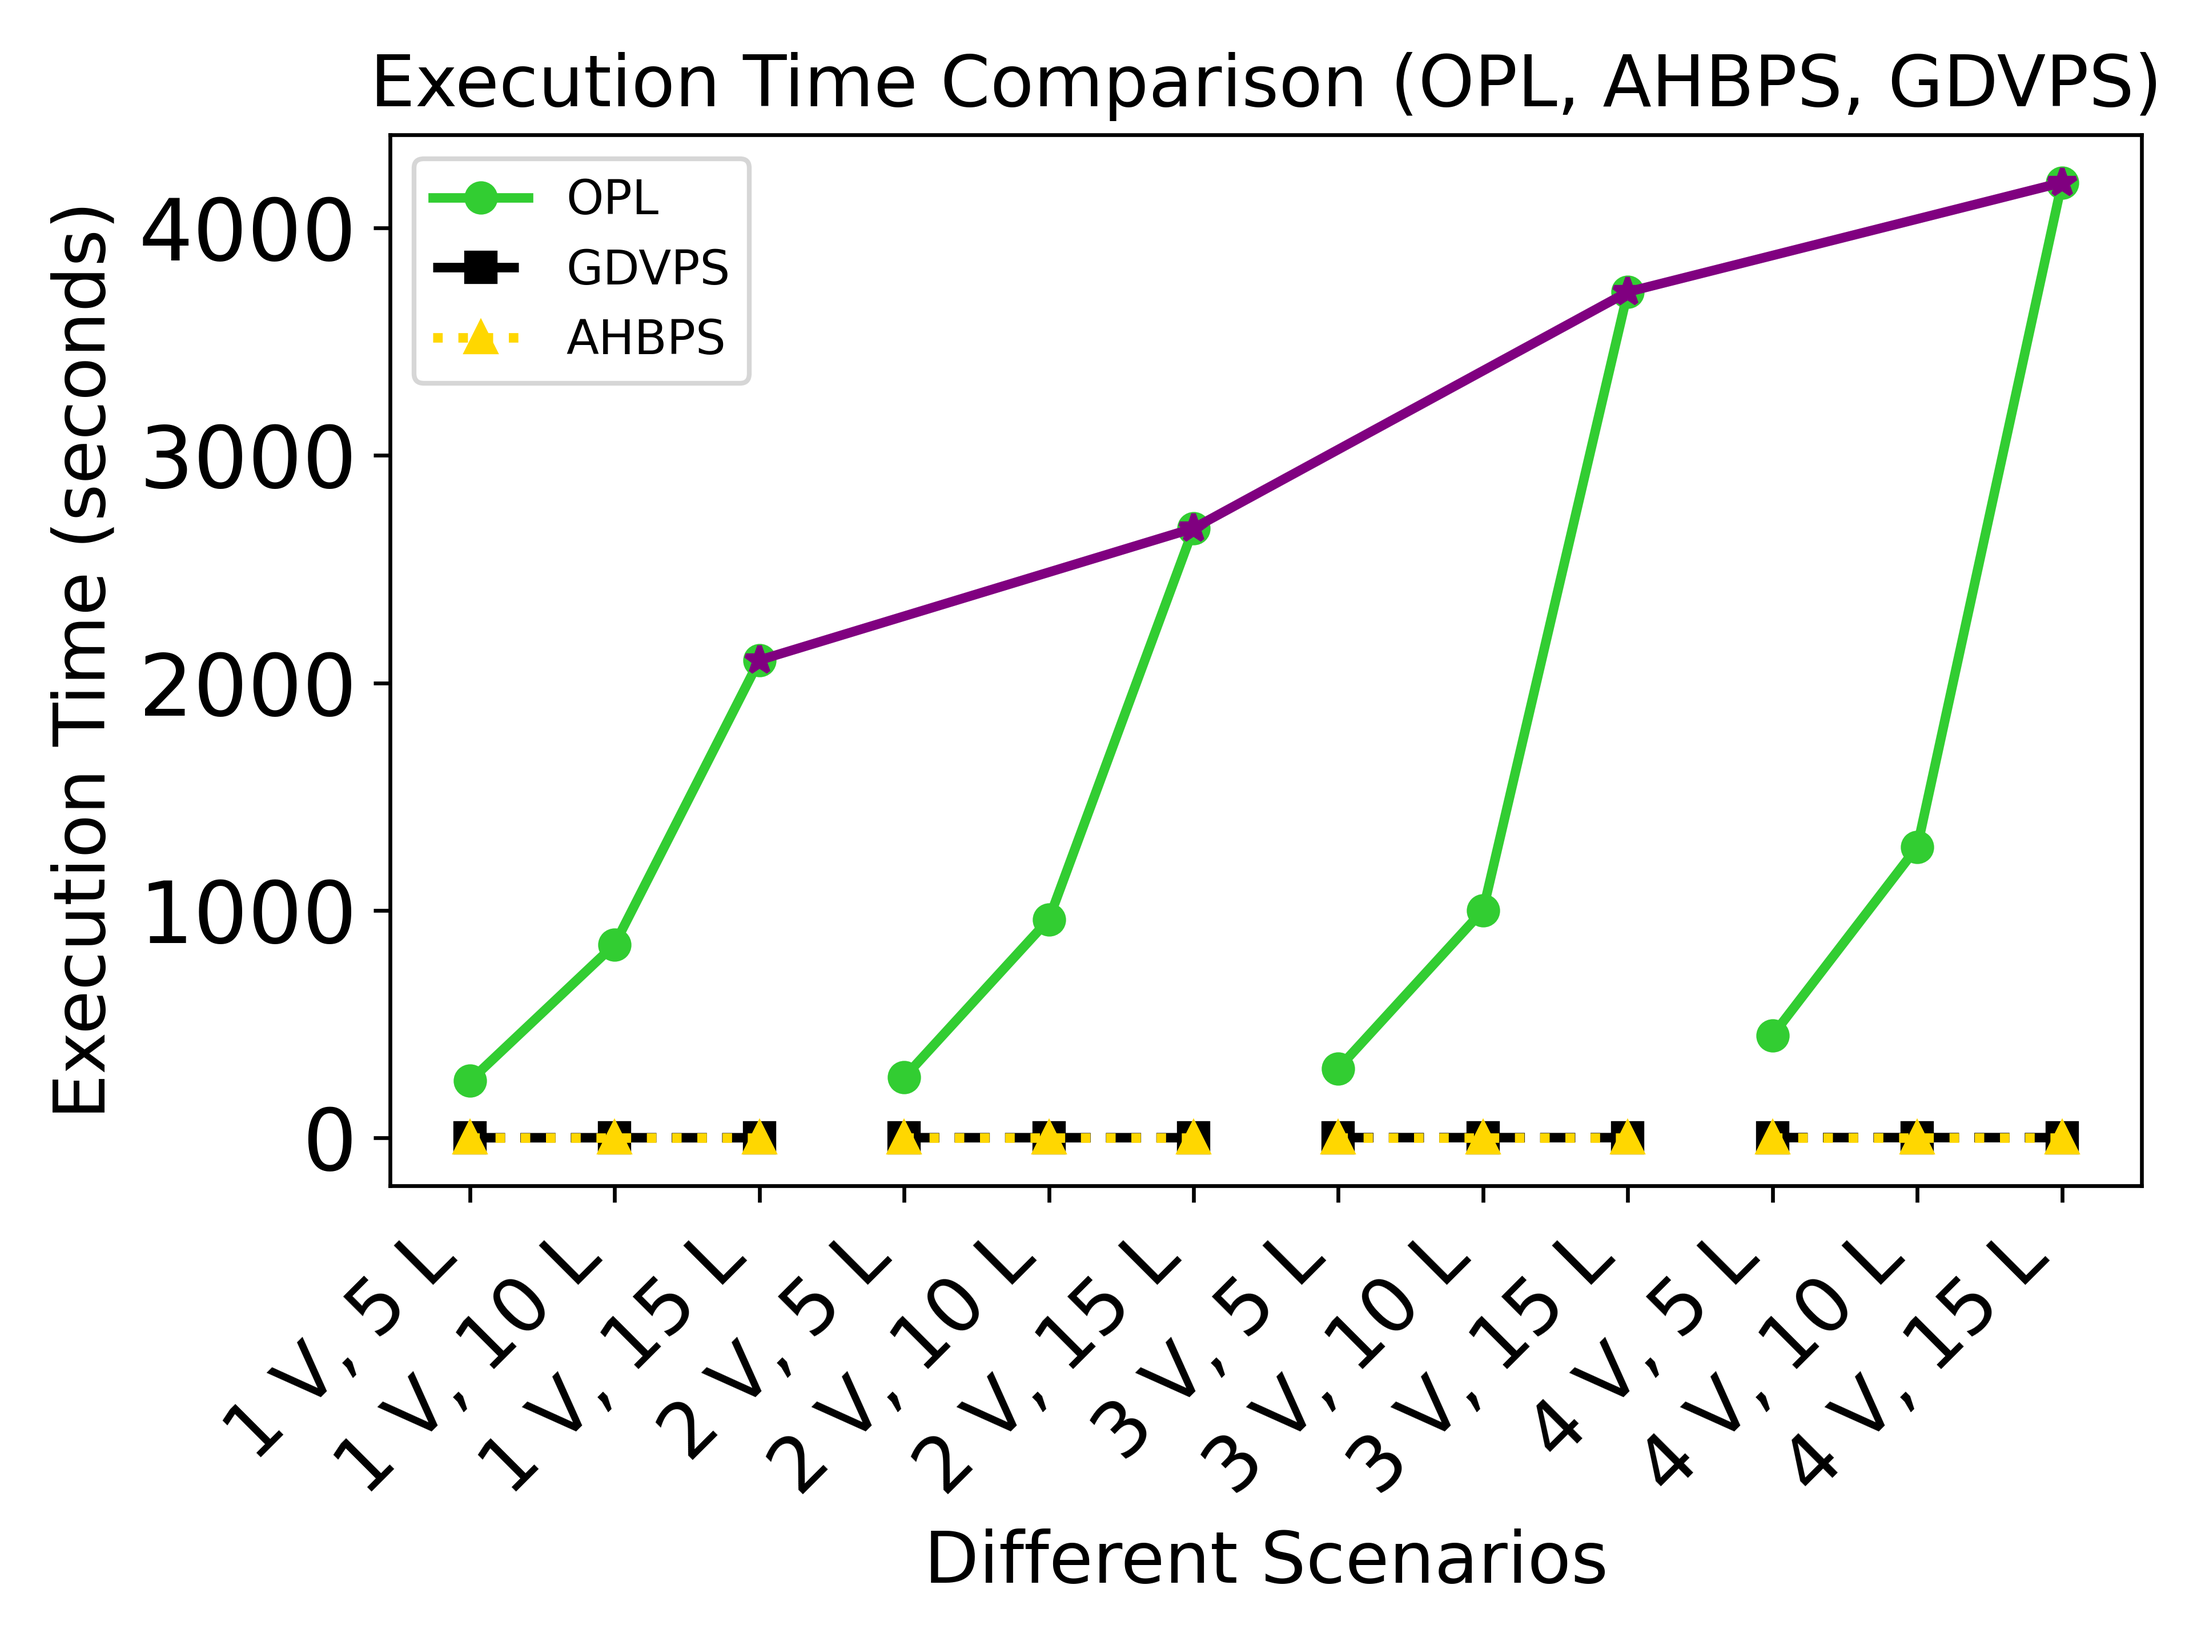
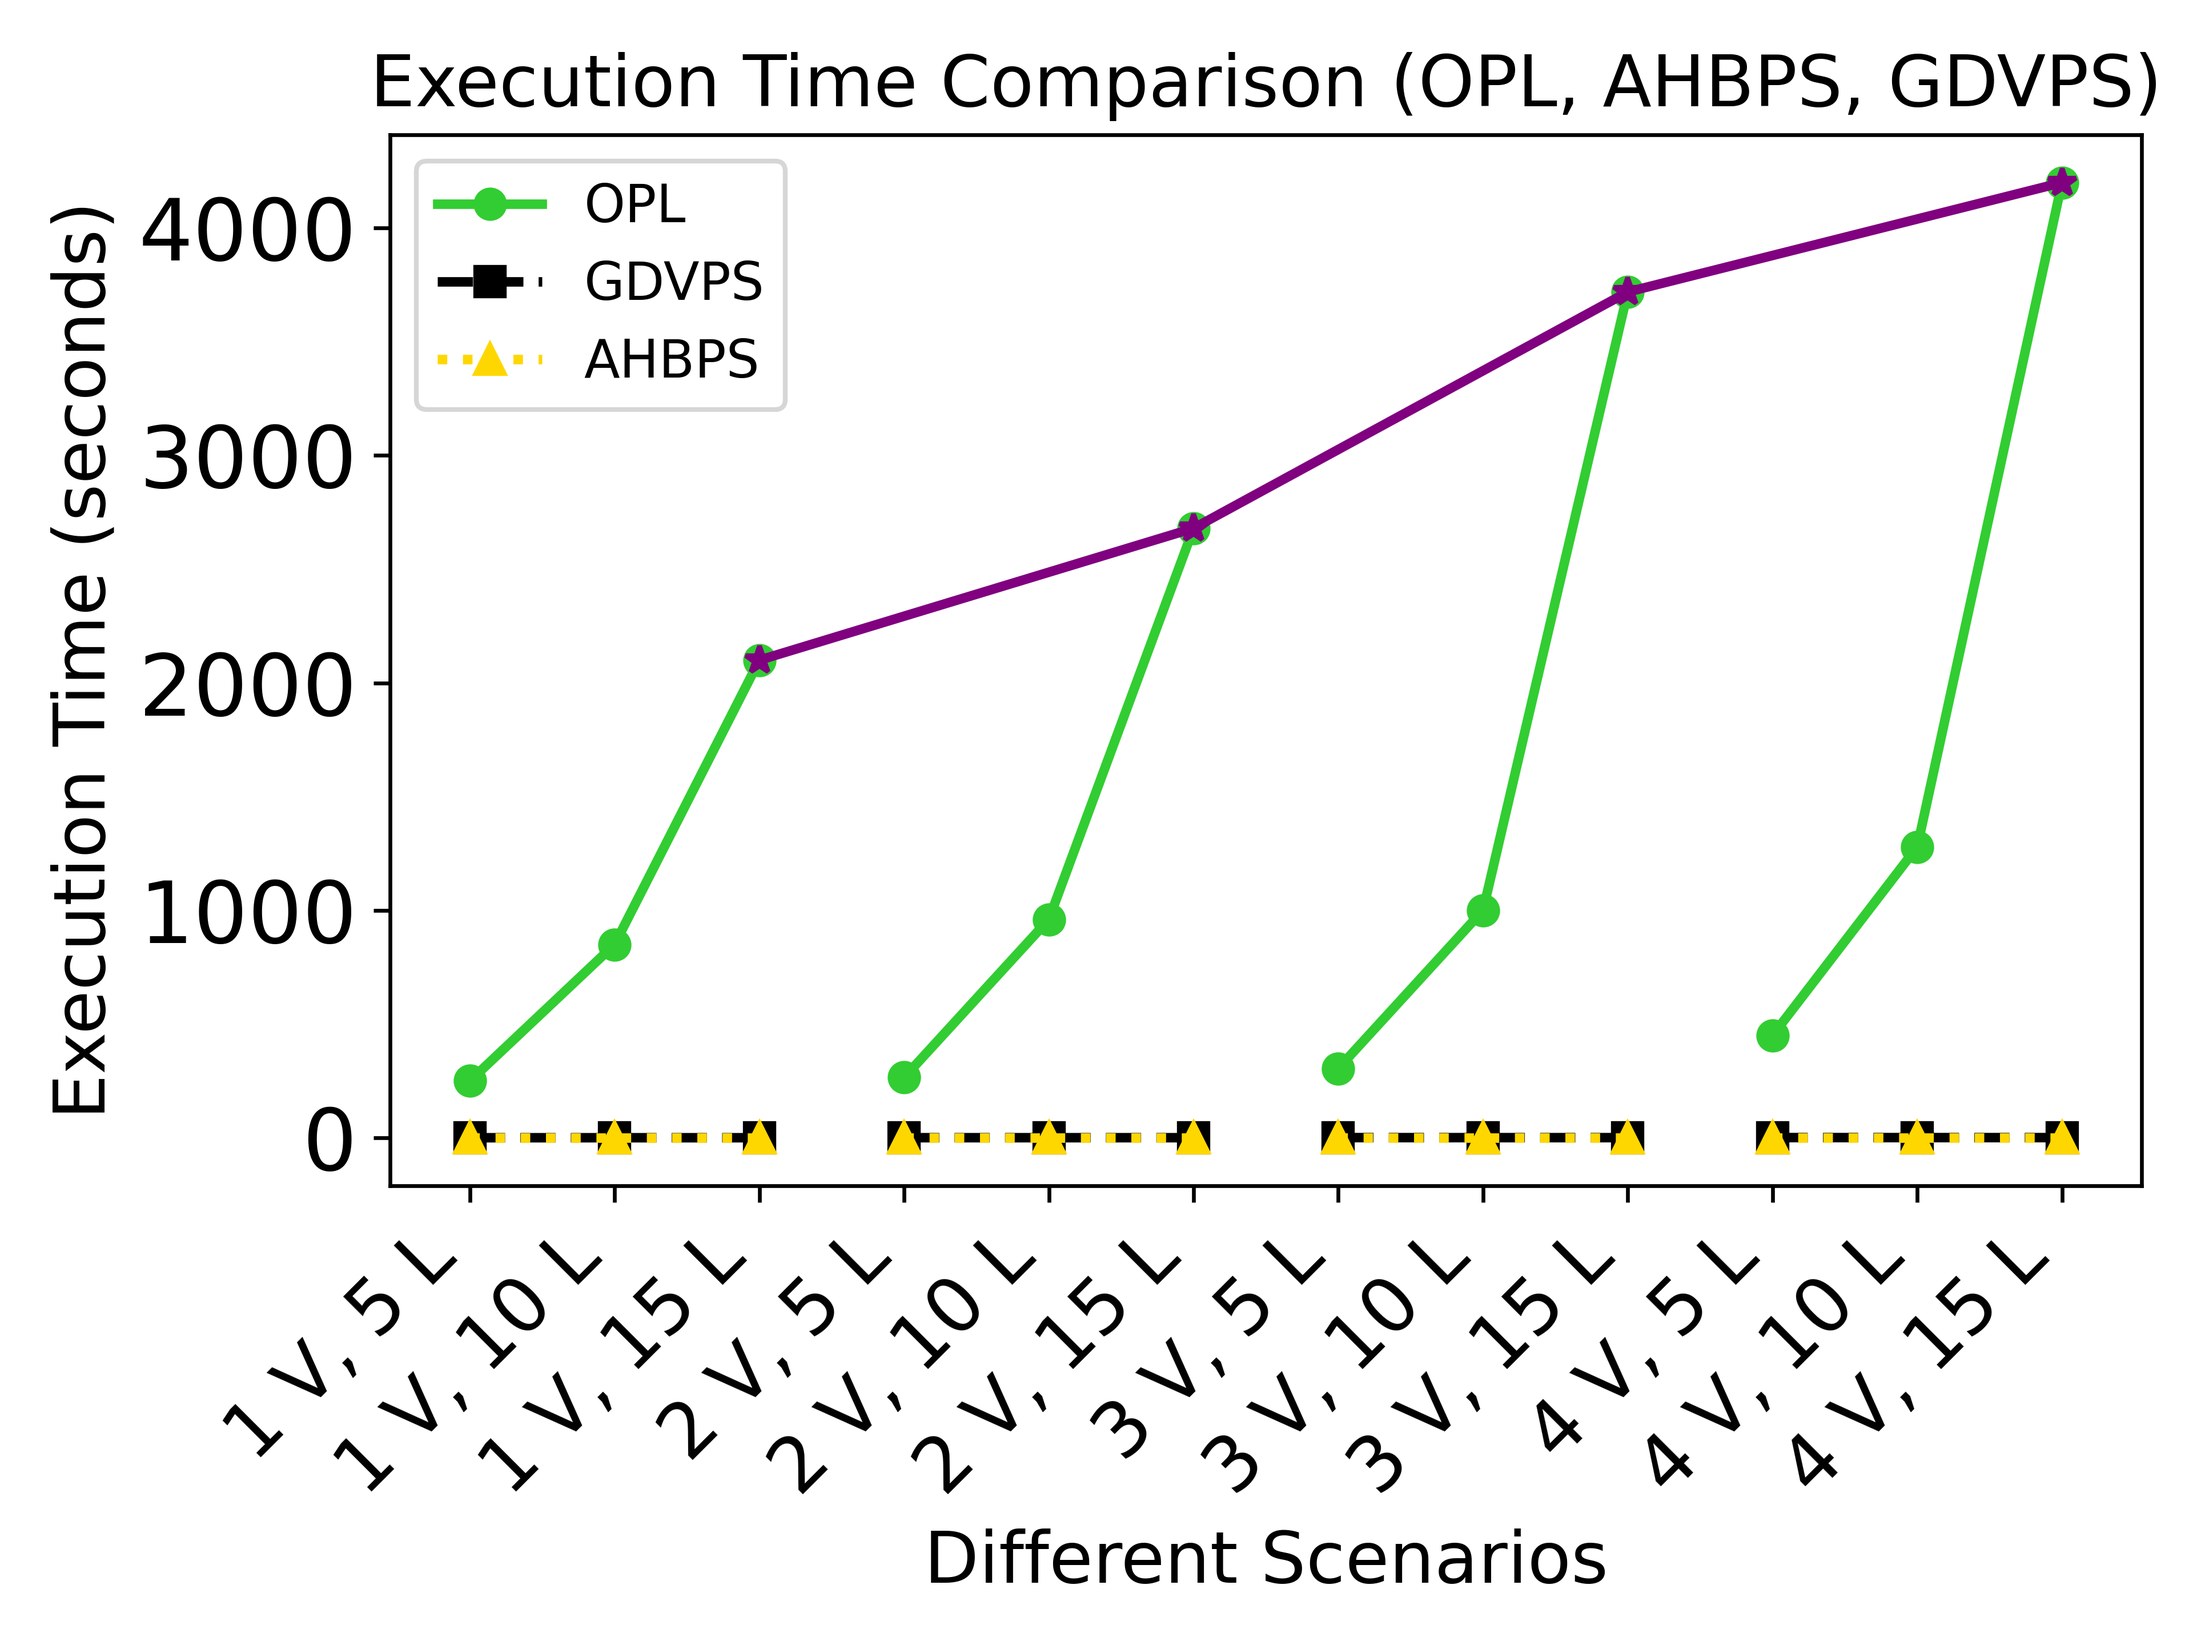
New graphs are generated

Changed region(s): [[0.1875, 0.0938, 0.375, 0.25]]

diff --git a/Visualize_codes/Execution_Time/Execution_Time_Small.py b/Visualize_codes/Execution_Time/Execution_Time_Small.py
@@ -1,5 +1,6 @@
 import matplotlib.pyplot as plt
 import numpy as np
+from mpl_toolkits.axes_grid1.inset_locator import inset_axes, mark_inset
 
 # Updated scenarios to include vehicles and locations
 scenarios = [
@@ -21,7 +22,7 @@ opl_values = [250, 850, 2100, 265, 960, 2680, 305, 1000, 3719, 450, 1279, 4200]
 # X-axis positions (just indexes for the line plot)
 x = np.arange(len(scenarios))
 
-# Creating the plot
+# Creating the main plot
 fig, ax = plt.subplots()
 
 # Grouping by the number of vehicles
@@ -49,8 +50,7 @@ for group in vehicle_groups:
     top_x_positions.append(group[np.argmax([opl_values[j] for j in group] + [gdvps_values[j] for j in group] + [ahbps_values[j] for j in group])])
 
 # Plot a purple line connecting the top results
-# ax.plot(top_x_positions, top_values, color='purple', linestyle='-', marker='*', linewidth=2, label='Top Results')
-ax.plot(top_x_positions, top_values, color='purple', linestyle='-', marker='*', linewidth=2)
+ax.plot(top_x_positions, top_values, color='purple', linestyle='-', marker='*', linewidth=2, label="Worst Values")
 
 # Set the tick labels for the x-axis
 ax.set_xticks(x)
@@ -65,13 +65,27 @@ ax.set_title('Execution Time Comparison (OPL, AHBPS, GDVPS)', fontsize=15)
 ax.tick_params(axis='y', labelsize=18)
 
 # Add the legend
-ax.legend(fontsize=10, loc='best')
+ax.legend(fontsize=11, loc='best')
+
+# Creating the inset zoomed view to focus on AHBPS and GDVPS differences
+axins = inset_axes(ax, width="30%", height="30%", loc='center right')  # Inset size and location
+axins.plot(x, gdvps_values, color='black', linestyle='--', marker='s', linewidth=2)
+axins.plot(x, ahbps_values, color='#FFD700', linestyle=':', marker='^', linewidth=2)
+
+# Limit the inset's x and y axis to zoom in on the interesting region
+axins.set_xlim(0, len(scenarios) - 1)
+axins.set_ylim(0, 1)  # Zoom in on the range of 0 to 1 for the AHBPS and GDVPS values
+axins.set_xticklabels([])  # Hide x-tick labels
+axins.set_yticklabels([])  # Hide y-tick labels
+
+# Mark the region on the main plot with the inset
+mark_inset(ax, axins, loc1=2, loc2=4, fc="none", ec="0.5")
 
 # Adjust layout
 plt.tight_layout()
 
 # Save the plot locally
-plt.savefig('execution_time_comparison_opl_ahbps_gdvps_top_results.png', dpi=600)
+plt.savefig('execution_time_comparison_opl_ahbps_gdvps_with_inset_zoom.png', dpi=600)
 
 # Show the plot
 plt.show()
